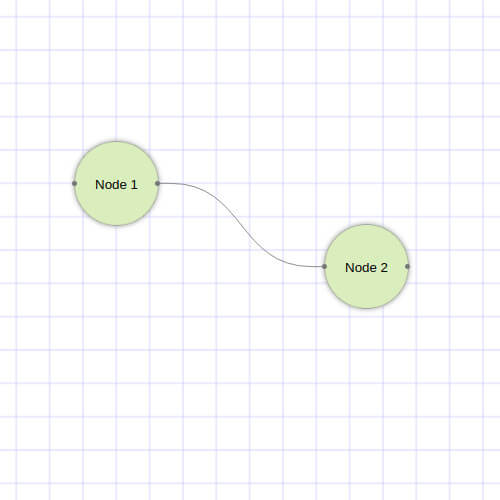
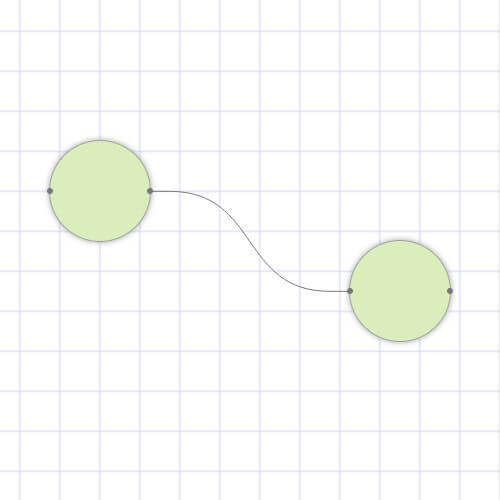
updated previews

diff --git a/static/use-cases/custom-background-renderer/index.html b/static/use-cases/custom-background-renderer/index.html
@@ -85,7 +85,6 @@
           this.canvas
             .addNode(
               this.createNode({
-                name: "Node 1",
                 x: 200,
                 y: 200,
                 frontPortId: "node-1-in",
@@ -94,7 +93,6 @@
             )
             .addNode(
               this.createNode({
-                name: "Node 2",
                 x: 500,
                 y: 300,
                 frontPortId: "node-2-in",
@@ -105,19 +103,16 @@
             .focus();
         }
 
-        createNode({ name, x, y, frontPortId, backPortId }) {
+        createNode({ x, y, frontPortId, backPortId }) {
           const node = document.createElement("div");
-          const text = document.createElement("div");
           const frontPort = document.createElement("div");
           const backPort = document.createElement("div");
 
           node.classList.add("node");
           frontPort.classList.add("node-port");
           backPort.classList.add("node-port");
-          text.innerText = name;
 
           node.appendChild(frontPort);
-          node.appendChild(text);
           node.appendChild(backPort);
 
           return {
